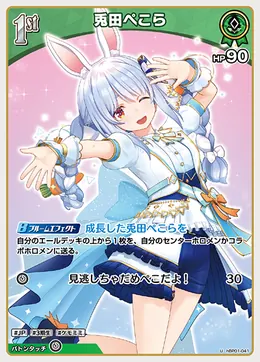
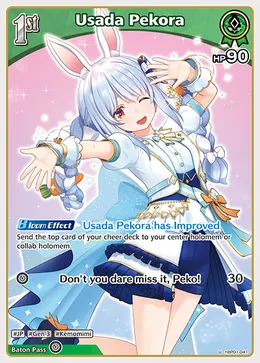
Set 1 Image Update
updates to Set 1 missing Images

diff --git a/script.js b/script.js
@@ -1373,6 +1373,83 @@
   }
 
   const CARD_IMAGES = {
+    // Filled in from JPingu's EN-art scans — 76 previously missing Set 1 cards
+    "hBP01-032": "hBP01-032_0.webp",
+    "hBP01-019": "hBP01-019_0.webp",
+    "hBP01-121": "hBP01-121_0.webp",
+    "hBP01-076": "hBP01-076_0.webp",
+    "hBP01-085": "hBP01-085_0.webp",
+    "hBP01-065": "hBP01-065_0.webp",
+    "hBP01-083": "hBP01-083_0.webp",
+    "hBP01-063": "hBP01-063_0.webp",
+    "hBP01-054": "hBP01-054_0.webp",
+    "hBP01-103": "hBP01-103_0.webp",
+    "hBP01-072": "hBP01-072_0.webp",
+    "hBP01-110": "hBP01-110_0.webp",
+    "hBP01-035": "hBP01-035_0.webp",
+    "hBP01-091": "hBP01-091_0.webp",
+    "hBP01-117": "hBP01-117_0.webp",
+    "hBP01-111": "hBP01-111_0.webp",
+    "hBP01-053": "hBP01-053_0.webp",
+    "hBP01-018": "hBP01-018_0.webp",
+    "hBP01-116": "hBP01-116_0.webp",
+    "hBP01-066": "hBP01-066_0.webp",
+    "hBP01-020": "hBP01-020_0.webp",
+    "hBP01-109": "hBP01-109_0.webp",
+    "hBP01-040": "hBP01-040_0.webp",
+    "hBP01-036": "hBP01-036_0.webp",
+    "hBP01-082": "hBP01-082_0.webp",
+    "hBP01-003": "hBP01-003_0.webp",
+    "hBP01-033": "hBP01-033_0.webp",
+    "hBP01-122": "hBP01-122_0.webp",
+    "hBP01-102": "hBP01-102_0.webp",
+    "hBP01-067": "hBP01-067_0.webp",
+    "hBP01-087": "hBP01-087_0.webp",
+    "hBP01-055": "hBP01-055_0.webp",
+    "hBP01-017": "hBP01-017_0.webp",
+    "hBP01-014": "hBP01-014_0.webp",
+    "hBP01-013": "hBP01-013_0.webp",
+    "hBP01-119": "hBP01-119_0.webp",
+    "hBP01-039": "hBP01-039_0.webp",
+    "hBP01-077": "hBP01-077_0.webp",
+    "hBP01-081": "hBP01-081_0.webp",
+    "hBP01-042": "hBP01-042_0.webp",
+    "hBP01-080": "hBP01-080_0.webp",
+    "hBP01-052": "hBP01-052_0.webp",
+    "hBP01-123": "hBP01-123_0.webp",
+    "hBP01-010": "hBP01-010_0.webp",
+    "hBP01-006": "hBP01-006_0.webp",
+    "hBP01-101": "hBP01-101_0.webp",
+    "hBP01-041": "hBP01-041_0.webp",
+    "hBP01-008": "hBP01-008_0.webp",
+    "hBP01-086": "hBP01-086_0.webp",
+    "hBP01-075": "hBP01-075_0.webp",
+    "hBP01-034": "hBP01-034_0.webp",
+    "hBP01-097": "hBP01-097_0.webp",
+    "hBP01-074": "hBP01-074_0.webp",
+    "hBP01-096": "hBP01-096_0.webp",
+    "hBP01-105": "hBP01-105_0.webp",
+    "hBP01-079": "hBP01-079_0.webp",
+    "hBP01-073": "hBP01-073_0.webp",
+    "hBP01-047": "hBP01-047_0.webp",
+    "hBP01-088": "hBP01-088_0.webp",
+    "hBP01-078": "hBP01-078_0.webp",
+    "hBP01-112": "hBP01-112_0.webp",
+    "hBP01-037": "hBP01-037_0.webp",
+    "hBP01-016": "hBP01-016_0.webp",
+    "hBP01-064": "hBP01-064_0.webp",
+    "hBP01-011": "hBP01-011_0.webp",
+    "hBP01-089": "hBP01-089_0.webp",
+    "hBP01-115": "hBP01-115_0.webp",
+    "hBP01-012": "hBP01-012_0.webp",
+    "hBP01-009": "hBP01-009_0.webp",
+    "hBP01-001": "hBP01-001_0.webp",
+    "hBP01-015": "hBP01-015_0.webp",
+    "hBP01-043": "hBP01-043_0.webp",
+    "hBP01-098": "hBP01-098_0.webp",
+    "hBP01-113": "hBP01-113_0.webp",
+    "hBP01-090": "hBP01-090_0.webp",
+    "hBP01-084": "hBP01-084_0.webp",
     // Filled in from JPingu's own saved scans — 13 previously missing Set 8 cards
     "hBP08-043": "hBP08-043_0.webp",
     "hBP08-097": "hBP08-097_0.webp",
